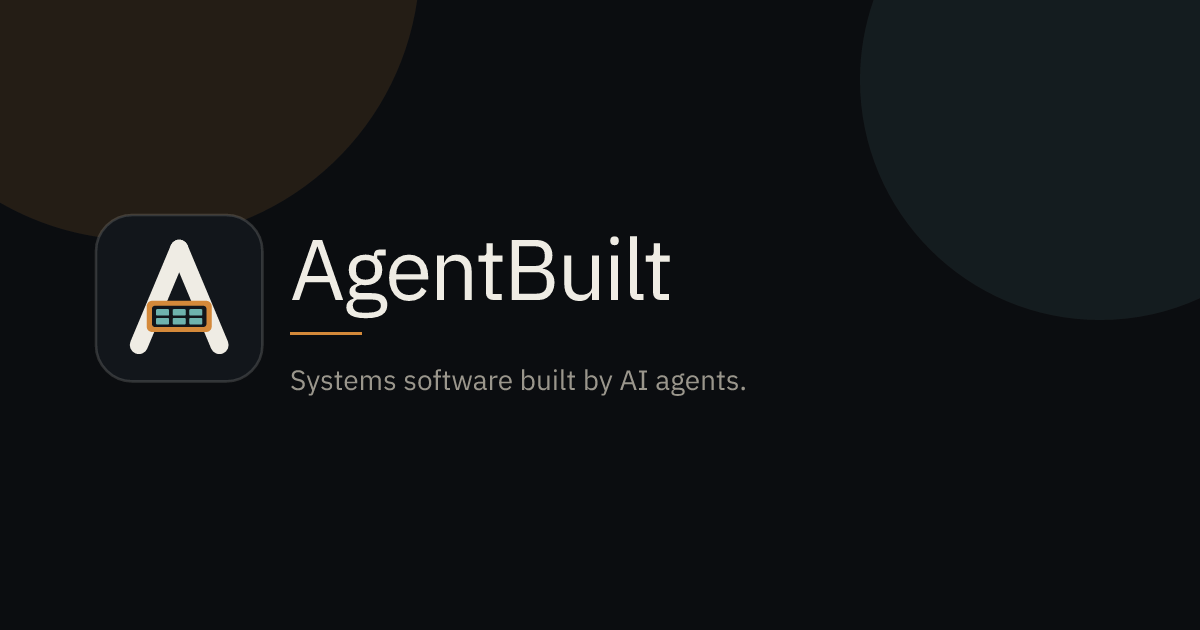
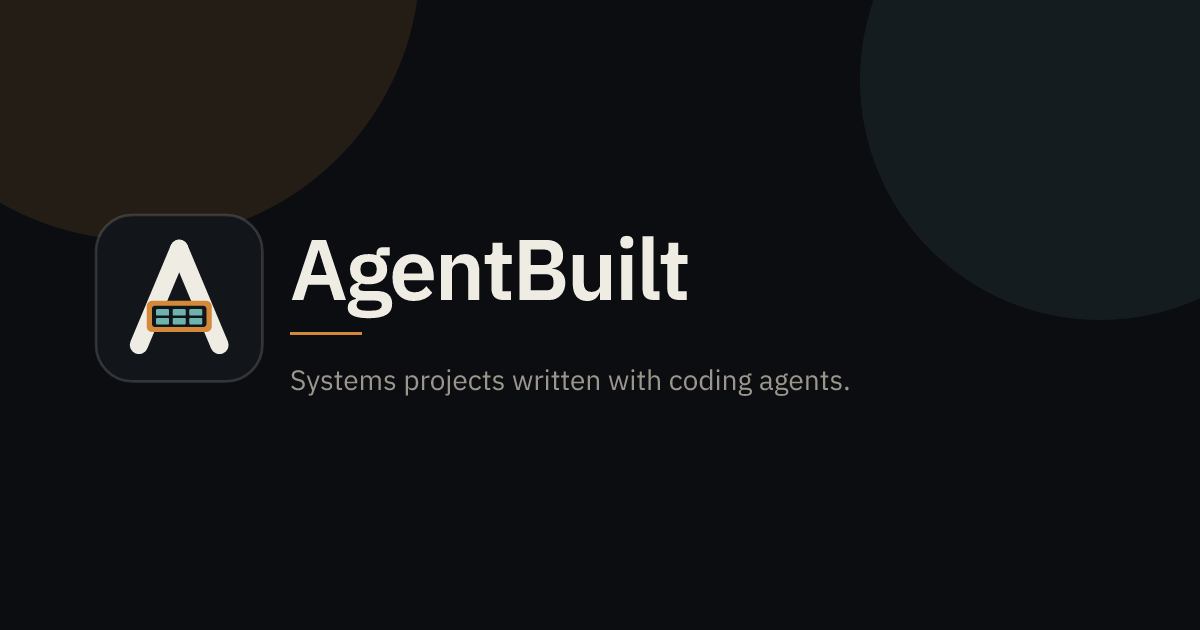
Rewrite site copy in a plainer maintainer voice (#2)
Say what the catalog lists, how an entry is verified, and how to
contribute, in English and in plain Simplified Chinese.

Changed region(s): [[0.2467, 0.3619, 0.5858, 0.5127], [0.3392, 0.573, 0.7092, 0.6333]]

diff --git a/site/src/i18n/zh.ts b/site/src/i18n/zh.ts
@@ -1,64 +1,65 @@
 import type { en } from "./en";
 
 export const zh: Record<keyof typeof en, string> = {
-  metaDefaultTitle: "AgentBuilt — 用 AI Agent Harness 打造的系统级软件名录",
+  metaDefaultTitle: "AgentBuilt：用 agent harness 写的系统软件",
   metaDefaultDescription:
-    "开源收录主要由大模型 / Agent harness 产出的中高难度系统级项目：内核、编译器、数据库、模拟器、浏览器引擎、GPU/TPU kernel 等，并强调可验证证据。",
+    "收录用 AI agent harness（Claude Code、Codex、Cursor 等）写的内核、编译器、操作系统和数据库。只有博客、没有公开代码的，标为未验证。",
   navHome: "目录",
-  navHarnesses: "按 Harness",
+  navHarnesses: "按 harness",
   navCompare: "对比",
   navContribute: "贡献",
   langSwitchLabel: "语言",
-  heroKicker: "开源名录",
-  heroTitle: "用 Agent Harness 做出的系统软件。",
+  navPrimary: "主导航",
+  heroKicker: "目录",
+  heroTitle: "用编程 agent 写的系统软件。",
   heroLead:
-    "公开、可核查的目录，收录主要由 Claude Code、Codex、Cursor、OpenCode、Gemini CLI、Antigravity、DeepSeek Harness 等工具产出的编译器、内核、操作系统、数据库、模拟器、浏览器引擎和 GPU/TPU kernel。",
-  heroNote:
-    "站点默认语言是英文。本页提供中文界面；若某条项目暂无中文描述，会回退显示英文。",
+    "内核、编译器、操作系统、数据库、模拟器、浏览器引擎，还有 GPU kernel 和 TPU kernel。每条记下 harness 和模型，并链到说明是 agent 写的 README、文章或论文。",
+  heroNote: "默认是英文。中文在 /zh/。项目没有中文简介时，显示英文。",
   filterHarness: "Harness",
   filterModel: "模型",
   filterCategory: "类别",
   filterDifficulty: "难度",
   filterAll: "全部",
-  filterVerified: "验证状态",
-  filterReset: "重置筛选",
+  filterVerified: "验证",
+  filterReset: "清除筛选",
   resultsCount: "{n} 个项目",
-  noResults: "没有符合当前筛选条件的项目。",
-  stars: "GitHub stars",
-  starsSnapshot: "Star 数为快照，不是实时数据。",
-  verified: "可验证性",
+  noResults: "没有符合这些条件的项目。",
+  stars: "Star 数",
+  starsSnapshot: "这是记下那天的 star 数，不是现在的。",
+  verified: "验证",
   evidence: "证据",
   humanInvolvement: "人工参与",
   repo: "仓库",
   homepage: "主页",
-  articles: "来源",
+  articles: "其他链接",
   license: "许可证",
-  languages: "语言",
+  languages: "编程语言",
   status: "状态",
   listedAt: "收录日期",
-  firstPublicAt: "首次公开",
-  notes: "说明",
+  firstPublicAt: "第一次公开",
+  notes: "备注",
   openRepo: "打开仓库",
-  missingRepo: "未找到公开仓库",
+  missingRepo: "没有公开仓库",
   compareTitle: "对比项目",
-  compareLead: "勾选 2 到 3 个条目，并排比较 harness、模型、证据和人工参与程度。",
-  compareSelect: "选择项目（2–3 个）",
-  compareAction: "更新对比",
-  compareNeedTwo: "请至少选择两个项目再对比。",
+  compareLead: "选两个或三个项目，对照 harness、模型、证据，以及人参与了多少。",
+  compareSelect: "选 2 到 3 个",
+  compareAction: "对比",
+  compareNeedTwo: "至少选两个。",
   compareCol: "字段",
-  harnessIndexTitle: "按 Harness 浏览",
-  harnessIndexLead: "每个页面汇总声明使用该 agent harness 的条目。同一个项目可以出现在多个 harness 下。",
-  harnessEmpty: "当前目录中还没有项目声明使用该 harness。",
-  projectNotFound: "未找到该项目",
+  summaryLabel: "简介",
+  harnessIndexTitle: "按 harness 看",
+  harnessIndexLead: "按项目里写明的 harness 分组。一个项目可以出现在好几个下面。",
+  harnessEmpty: "还没有项目写过这个 harness。",
+  projectNotFound: "没有这个项目",
   sourceCode: "源码",
-  modelUnknown: "已核对来源中未写出模型名称",
+  modelUnknown: "来源里没写模型名",
   footerResearch: "调研笔记",
-  footerSchema: "数据 schema",
-  footerContributing: "如何贡献",
+  footerSchema: "数据格式",
+  footerContributing: "贡献说明",
   footerRepo: "GitHub",
-  footerCopy: "这是一份开源名录。站点名、域名和仓库地址集中在 site.config.ts，方便改名。",
-  rssTitle: "AgentBuilt — 新收录项目",
-  rssDescription: "新列入名录的、由 LLM / Agent harness 产出的系统级软件。",
+  footerCopy: "站点名、域名和仓库地址写在 site.config.ts。",
+  rssTitle: "AgentBuilt：新加的项目",
+  rssDescription: "刚收进目录的系统项目。",
   aboutEvidence:
-    "每条记录都链向第一方证据。我们不编造仓库、模型名称或基准数字。",
+    "来源和代码都能打开，才标成已验证。只有博客或论文、找不到公开仓库的，也会留在列表里，标成未验证。仓库链接、模型名、测试数字都照来源抄，不另补。加一条或改错，提 pull request。",
 };

diff --git a/site/src/i18n/en.ts b/site/src/i18n/en.ts
@@ -1,35 +1,36 @@
 export const en = {
-  metaDefaultTitle: "AgentBuilt — systems software built with AI agent harnesses",
+  metaDefaultTitle: "AgentBuilt: systems software written with AI agent harnesses",
   metaDefaultDescription:
-    "An open catalog of mid-to-high difficulty systems projects — kernels, compilers, databases, emulators, browser engines, and accelerator kernels — primarily produced by LLM and agent harnesses, with verifiable evidence.",
+    "Kernels, compilers, operating systems, and databases written with AI agent harnesses (Claude Code, Codex, Cursor). Blog-only projects are marked unverified.",
   navHome: "Catalog",
-  navHarnesses: "By harness",
+  navHarnesses: "Harnesses",
   navCompare: "Compare",
   navContribute: "Contribute",
   langSwitchLabel: "Language",
-  heroKicker: "Open catalog",
-  heroTitle: "Systems software built with agent harnesses.",
+  navPrimary: "Primary",
+  heroKicker: "Catalog",
+  heroTitle: "Systems projects written with coding agents.",
   heroLead:
-    "A public, verifiable index of compilers, kernels, operating systems, databases, emulators, browser engines, and GPU/TPU kernels produced primarily by tools such as Claude Code, Codex, Cursor, OpenCode, Gemini CLI, Antigravity, and DeepSeek Harness.",
+    "Kernels, compilers, operating systems, databases, emulators, browser engines, GPU kernels, and TPU kernels. Each entry names the harness and the model, and links the README, post, or paper that says an agent wrote it.",
   heroNote:
-    "English is the default language of the site. 中文说明见对应页面；项目描述若暂无译文会回退到英文。",
+    "English is the default. Chinese pages are under /zh/. If a project has no Chinese summary, the English one is shown.",
   filterHarness: "Harness",
   filterModel: "Model",
   filterCategory: "Category",
   filterDifficulty: "Difficulty",
   filterAll: "All",
   filterVerified: "Verification",
-  filterReset: "Reset filters",
+  filterReset: "Clear filters",
   resultsCount: "{n} projects",
   noResults: "No projects match these filters.",
   stars: "GitHub stars",
-  starsSnapshot: "Star counts are snapshots, not live totals.",
+  starsSnapshot: "Star count from the date shown, not a live total.",
   verified: "Verification",
   evidence: "Evidence",
   humanInvolvement: "Human involvement",
   repo: "Repository",
   homepage: "Homepage",
-  articles: "Sources",
+  articles: "Other links",
   license: "License",
   languages: "Languages",
   status: "Status",
@@ -37,28 +38,31 @@ export const en = {
   firstPublicAt: "First public",
   notes: "Notes",
   openRepo: "Open repository",
-  missingRepo: "No public repository found",
+  missingRepo: "No public repository",
   compareTitle: "Compare projects",
-  compareLead: "Select two or three catalog entries and compare harnesses, models, evidence, and human involvement side by side.",
-  compareSelect: "Choose projects (2–3)",
-  compareAction: "Update comparison",
-  compareNeedTwo: "Select at least two projects to compare.",
+  compareLead:
+    "Pick two or three projects. The table shows the harness, the model, the evidence, and how much a person was involved.",
+  compareSelect: "Pick 2 or 3",
+  compareAction: "Compare",
+  compareNeedTwo: "Pick at least two projects.",
   compareCol: "Field",
-  harnessIndexTitle: "Browse by harness",
-  harnessIndexLead: "Each page groups catalog entries that name a given agent harness. A project can appear under more than one harness.",
-  harnessEmpty: "No projects in the catalog currently name this harness.",
-  projectNotFound: "Project not found",
+  summaryLabel: "Summary",
+  harnessIndexTitle: "By harness",
+  harnessIndexLead:
+    "Grouped by the harness named on the project. One project can show up under more than one.",
+  harnessEmpty: "No project in the catalog names this harness.",
+  projectNotFound: "No such project",
   sourceCode: "Source",
-  modelUnknown: "Model not named in the sources we checked",
+  modelUnknown: "Model not named in the sources",
   footerResearch: "Research notes",
-  footerSchema: "Data schema",
+  footerSchema: "Schema",
   footerContributing: "Contributing",
   footerRepo: "GitHub",
-  footerCopy: "An open catalog. Names, domains, and the repository URL live in site.config.ts so they can be changed in one place.",
-  rssTitle: "AgentBuilt — new catalog entries",
-  rssDescription: "Newly listed systems software produced by LLM and agent harnesses.",
+  footerCopy: "Site name, domain, and repository URL are in site.config.ts.",
+  rssTitle: "AgentBuilt: new entries",
+  rssDescription: "Systems projects just added to the catalog.",
   aboutEvidence:
-    "Every entry links to first-party evidence. We do not invent repositories, model names, or benchmark numbers.",
+    "Verified means we can open a first-party source and the code. A blog post or paper with no public repository stays in the list and is marked unverified. Repo URLs, model names, and benchmark numbers are copied from the source. Add or fix an entry with a pull request.",
 };
 
 export type MessageKey = keyof typeof en;

diff --git a/site/src/data/labels.ts b/site/src/data/labels.ts
@@ -9,8 +9,8 @@ const harness: Record<string, { en: string; zh: string }> = {
   antigravity: { en: "Google Antigravity", zh: "Google Antigravity" },
   "deepseek-harness": { en: "DeepSeek Harness", zh: "DeepSeek Harness" },
   loom: { en: "Loom", zh: "Loom" },
-  custom: { en: "Custom harness", zh: "自研 Harness" },
-  unknown: { en: "Unknown harness", zh: "Harness 未知" },
+  custom: { en: "Custom harness", zh: "自己的 harness" },
+  unknown: { en: "Harness not named", zh: "没写 harness" },
 };
 
 const category: Record<string, { en: string; zh: string }> = {
@@ -30,30 +30,30 @@ const category: Record<string, { en: string; zh: string }> = {
 const difficulty: Record<string, { en: string; zh: string }> = {
   medium: { en: "Medium", zh: "中等" },
   high: { en: "High", zh: "高" },
-  "very-high": { en: "Very high", zh: "极高" },
+  "very-high": { en: "Very high", zh: "很高" },
 };
 
 const verified: Record<string, { en: string; zh: string }> = {
-  verified: { en: "Verified artifact", zh: "已核实工件" },
-  official_claim_no_source: { en: "Official claim, no source", zh: "官方声明，无源码" },
+  verified: { en: "Verified", zh: "已验证" },
+  official_claim_no_source: { en: "Official post, no repository", zh: "官方发了文，没有仓库" },
   author_claimed: { en: "Author claimed", zh: "作者声明" },
-  commit_attribution: { en: "Commit attribution", zh: "Commit 归因" },
-  paper_claimed_release_not_found: { en: "Paper release not found", zh: "论文声称发布但未找到仓库" },
+  commit_attribution: { en: "Commit trailer", zh: "Commit 署名" },
+  paper_claimed_release_not_found: { en: "Paper, repository not found", zh: "论文说有代码，仓库没找到" },
   unverified: { en: "Unverified", zh: "未验证" },
 };
 
 const human: Record<string, { en: string; zh: string }> = {
-  autonomous_multi_agent: { en: "Autonomous multi-agent", zh: "多 Agent 自主运行" },
-  steered_agent: { en: "Steered agent", zh: "人类引导的 Agent" },
-  pair: { en: "Human–agent pair", zh: "人机结对" },
-  unknown: { en: "Unknown", zh: "未知" },
+  autonomous_multi_agent: { en: "Mostly written by agents", zh: "代码主要是 agent 写的" },
+  steered_agent: { en: "Person directed, agent wrote the code", zh: "人定方向，agent 写代码" },
+  pair: { en: "Person and agent both wrote code", zh: "人和 agent 一起写的" },
+  unknown: { en: "Not stated", zh: "未说明" },
 };
 
 const status: Record<string, { en: string; zh: string }> = {
   active: { en: "Active", zh: "活跃" },
   research: { en: "Research", zh: "研究" },
-  no_public_source: { en: "No public source", zh: "无公开源码" },
-  preserved_branch: { en: "Preserved branch", zh: "分支留存" },
+  no_public_source: { en: "No public code", zh: "没有公开代码" },
+  preserved_branch: { en: "Kept on a branch", zh: "留在分支上" },
 };
 
 const evidenceType: Record<string, { en: string; zh: string }> = {
@@ -62,9 +62,9 @@ const evidenceType: Record<string, { en: string; zh: string }> = {
   author_readme: { en: "Author README", zh: "作者 README" },
   author_blog: { en: "Author blog", zh: "作者博客" },
   paper: { en: "Paper", zh: "论文" },
-  commit_trailer: { en: "Commit trailer", zh: "Commit trailer" },
-  benchmark: { en: "Benchmark / dashboard", zh: "基准 / 看板" },
-  official_social: { en: "Official social post", zh: "官方社交帖" },
+  commit_trailer: { en: "Commit trailer", zh: "Commit 署名" },
+  benchmark: { en: "Benchmark", zh: "基准测试" },
+  official_social: { en: "Official post", zh: "官方帖子" },
 };
 
 

diff --git a/CONTRIBUTING.md b/CONTRIBUTING.md
@@ -1,31 +1,45 @@
 # Contributing to AgentBuilt
 
-AgentBuilt is a catalog of **systems software** (kernels, compilers, databases, emulators, browser engines, GPU/TPU kernels, and similar work) that was **primarily produced by an LLM or agent harness**. We care more about verifiable evidence than about hype.
+AgentBuilt lists systems software that an LLM or a coding-agent harness wrote most of: kernels, compilers, databases, emulators, browser engines, GPU/TPU kernels, and similar projects.
 
-English is the default language of the project. 简体中文译文欢迎补充，但不是合并的前提。
+English is the default. Simplified Chinese summaries are welcome. A pull request can merge without one.
 
 ## What belongs here
 
-A good entry is:
+Include a project when all of these are true:
 
-- Publicly inspectable (a repository, paper, or official announcement you can open);
-- Primarily written or optimized by an agent / harness, not merely “AI was used for a few functions”;
-- In a mid-to-high difficulty systems domain;
-- Backed by at least one **first-party** source: the author’s README or blog, an official company/lab post, a paper, or machine-readable commit attribution.
+- A repository, paper, or official announcement can be opened.
+- An agent harness wrote most of the implementation, more than a helper function or two.
+- The work is a mid-to-high difficulty systems project.
+- There is at least one first-party source: the author's README or blog, an official company or lab post, a paper, or a commit trailer such as `Co-Authored-By`.
 
-We generally do **not** list consumer SaaS, games, or portfolio sites. Those are already covered by directories such as MissumAI and vibecodedapps.dev.
+Consumer apps, games, and portfolio sites are out of scope. Directories such as MissumAI and vibecodedapps.dev already list those.
+
+## How entries are marked
+
+`verified` requires both a first-party source and a public artifact you can open (repository, kernel files, or benchmark notes).
+
+These three are shown with an **Unverified** badge:
+
+- `official_claim_no_source`: an official blog or announcement describes the work, and no public repository was found. Blog-only projects use this.
+- `paper_claimed_release_not_found`: a paper says the code will be released, and the repository cannot be found.
+- `unverified`: a second-hand mention only, with no first-party source. Skip these. If you keep one, `notes` has to say why it is still useful.
+
+`author_claimed` means the author's README or blog states the claim and the repository opens. `commit_attribution` means a commit trailer names the agent as well.
+
+If you do not know a field, use `unknown` or `null` and say why in `notes`. Copy URLs, star counts, model names, and quotes from the source. If a value is not in the source, leave the field empty.
 
 ## How to add or fix a project
 
 1. Fork the repository and create a branch.
-2. Edit [`seed-projects.yaml`](./seed-projects.yaml). Do not invent URLs, star counts, model names, or quotes. If you do not know a field, use `unknown` or `null` and explain in `notes`.
-3. Follow the schema in [`schema/project.schema.json`](./schema/project.schema.json).
-4. Provide `summary.en` (required). `summary.zh` is optional; the site falls back to English.
-5. Include at least one `evidence` item with a working `url` and, when possible, a short verbatim `quote`.
-6. Set `verified` conservatively. Use `verified` only when a first-party source and a public artifact both exist. Use `official_claim_no_source` when an official post describes work that has no public repository. Use `paper_claimed_release_not_found` when a paper promises a release you cannot find.
-7. Open a pull request with the template below.
+2. Edit [`seed-projects.yaml`](./seed-projects.yaml).
+3. Follow [`schema/project.schema.json`](./schema/project.schema.json).
+4. `summary.en` is required. `summary.zh` is optional. The site shows English when Chinese is missing.
+5. Add at least one `evidence` item with a working `url`. A short verbatim `quote` helps when you have one.
+6. Set `verified` from the rules above. If you are unsure, use the weaker level.
+7. Open a pull request. The template below can go in the body.
 
-Please also update a typo or a stale link if you see one. Those PRs are welcome.
+A typo fix or a stale-link fix is enough for a pull request on its own.
 
 ## Pull request template
 
@@ -66,14 +80,14 @@ npm run check:data
 npm run build
 ```
 
-`check:data` validates `seed-projects.yaml` against the JSON Schema. The production build will fail if the catalog cannot be parsed.
+`check:data` validates `seed-projects.yaml` against the JSON Schema. The production build fails if the catalog cannot be parsed.
 
-## Optional automation
+## Star counts
 
-A GitHub Action that refreshes `stars` and re-checks URLs is planned but not required for the first version. Until that exists, leave `stars_checked_at` next to any star count you add, and do not guess a number.
+Nothing in the repo refreshes `stars` or re-checks URLs yet. If you add a star count, set `stars_checked_at` to the day you read it on GitHub. If you did not read it, omit `stars`.
 
 ## Code and site changes
 
-UI strings live in `site/src/i18n/en.ts` and `site/src/i18n/zh.ts`. Site name, origin, base path, and repository URL live in `site/src/site.config.ts` — change those in one place if the project is renamed.
+UI strings are in `site/src/i18n/en.ts` and `site/src/i18n/zh.ts`. The site name, origin, base path, and repository URL are in `site/src/site.config.ts`.
 
-Please keep the site static. Filters and the compare view should work without a backend.
+Keep the site static. Filters and the compare page should work without a backend.

diff --git a/README.md b/README.md
@@ -1,8 +1,10 @@
 # AgentBuilt
 
-A catalog of systems software built with AI agent harnesses — compilers, kernels, operating systems, databases, emulators, browser engines, and GPU/TPU kernels — with an emphasis on verifiable evidence and open contribution.
+A catalog of systems software written mostly by AI coding agents and agent harnesses: kernels, compilers, operating systems, databases, emulators, browser engines, GPU kernels, and TPU kernels.
 
-The site name, domain, and repository URL are centralized in [`site/src/site.config.ts`](site/src/site.config.ts):
+Each entry links to a first-party source (author README, official post, paper, or commit trailer). If the only source is a blog post or a paper and no public repository was found, the entry stays in the list and is marked unverified. To add or correct an entry, see [CONTRIBUTING.md](./CONTRIBUTING.md).
+
+The site name, domain, and repository URL are in [`site/src/site.config.ts`](site/src/site.config.ts):
 
 - Name: **AgentBuilt**
 - Repo: [https://github.com/heemoe/agentbuilt](https://github.com/heemoe/agentbuilt)
@@ -10,11 +12,11 @@ The site name, domain, and repository URL are centralized in [`site/src/site.con
 
 ## Documents
 
-- [`research.md`](./research.md) — research notes (Chinese)
-- [`seed-projects.yaml`](./seed-projects.yaml) — seed catalog
-- [`schema/project.schema.json`](./schema/project.schema.json) — data schema
-- [`CONTRIBUTING.md`](./CONTRIBUTING.md) — how to submit an entry
-- [`logo-preview.png`](./logo-preview.png) — logo preview
+- [`research.md`](./research.md): research notes (Chinese)
+- [`seed-projects.yaml`](./seed-projects.yaml): seed catalog
+- [`schema/project.schema.json`](./schema/project.schema.json): data schema
+- [`CONTRIBUTING.md`](./CONTRIBUTING.md): how to submit an entry
+- [`logo-preview.png`](./logo-preview.png): logo preview
 
 ## Run the site
 
